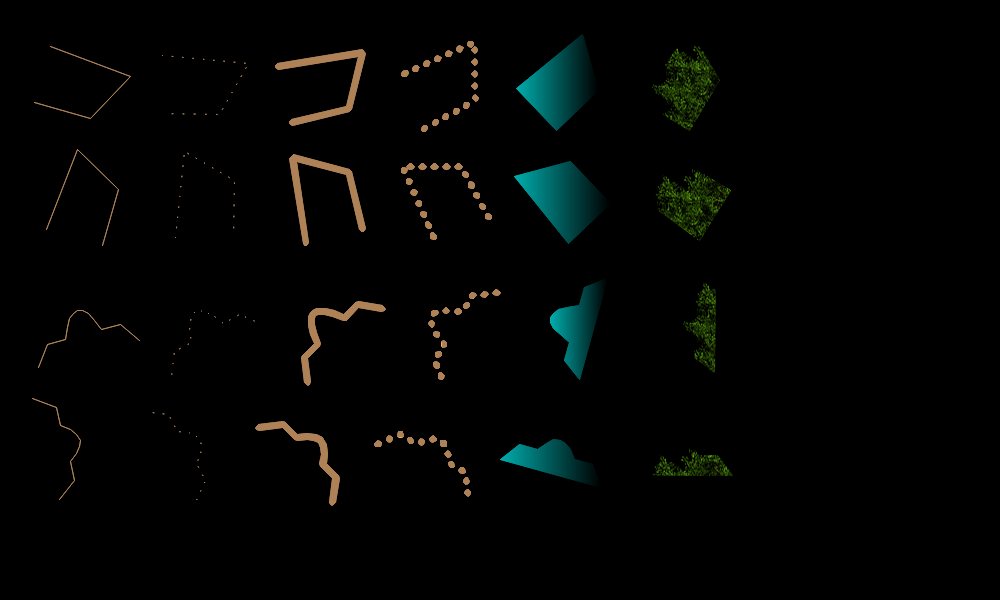
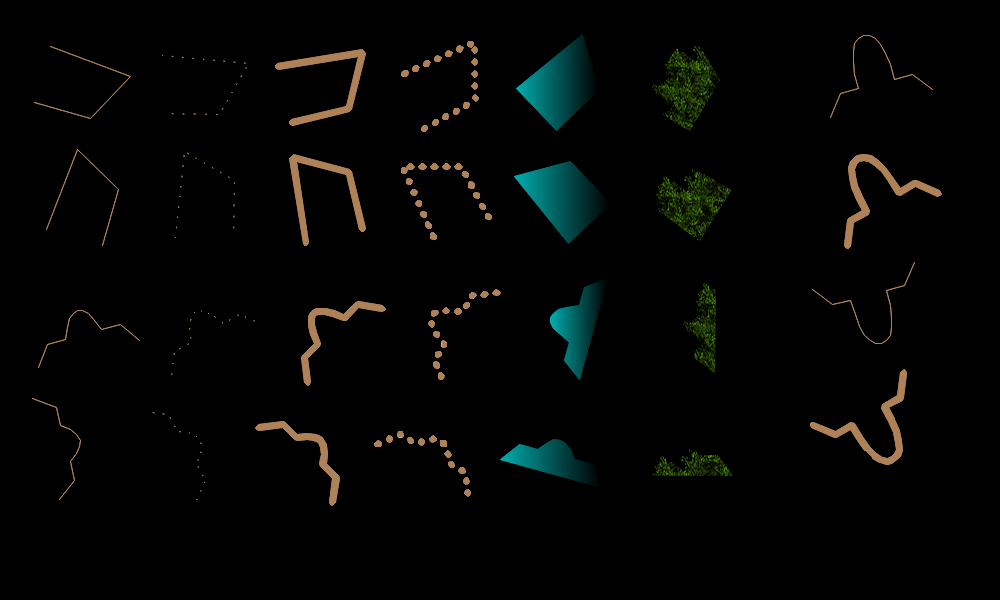
Working on Path2D

Changed region(s): [[0.837, 0.24, 0.961, 0.42], [0.806, 0.66, 0.93, 0.78], [0.899, 0.6, 0.93, 0.66]]

diff --git a/src/Pt-Gfx/tests/ImagePainterTest2_Benchmark_Path.cpp b/src/Pt-Gfx/tests/ImagePainterTest2_Benchmark_Path.cpp
@@ -93,6 +93,43 @@ static void benchDrawPath_drawRow(
     ++row;
 }
 
+template <bool WITH_RASTERISATION>
+static void benchDrawPath_drawCol(
+    ImagePainter2* ip2, AffineMatrix2D& matrix2d, const Path2D& path2d, Pt::int32_t& row, Pt::int32_t& col,
+    const Pen& penThinSolid, const Pen& penThickSolid, AntiAliasingMode antiAliasingMode
+)
+{
+    std::vector<PointF> pointsF;
+
+    matrix2d.rotateAboutOrigin(15);
+    matrix2d.push();
+    matrix2d.translate(150 + 120 * col, 60 + 120 * row);
+    pointsF.clear();
+    path2d.generatePoints(pointsF, 0);
+    matrix2d.transformPoints(pointsF.data(), pointsF.size());
+    if(WITH_RASTERISATION) {
+        ip2->setAntiAliasingMode(antiAliasingMode);
+        ip2->setPen(penThinSolid);
+        ip2->drawPolyline(pointsF.data(), pointsF.size(), false);
+    }
+    matrix2d.pop();
+    ++row;
+
+    matrix2d.rotateAboutOrigin(15);
+    matrix2d.push();
+    matrix2d.translate(150 + 120 * col, 60 + 120 * row);
+    pointsF.clear();
+    path2d.generatePoints(pointsF, 0);
+    matrix2d.transformPoints(pointsF.data(), pointsF.size());
+    if(WITH_RASTERISATION) {
+        ip2->setAntiAliasingMode(antiAliasingMode);
+        ip2->setPen(penThickSolid);
+        ip2->drawPolyline(pointsF.data(), pointsF.size(), false);
+    }
+    matrix2d.pop();
+    ++row;
+}
+
 template <typename PainterT, bool WITH_RASTERISATION>
 static size_t benchDrawPath(int loopCount, const Brush& brush1, const Brush& brush2, CompositionMode cm, AntiAliasingMode antiAliasingMode)
 {
@@ -140,12 +177,12 @@ static size_t benchDrawPath(int loopCount, const Brush& brush1, const Brush& bru
         // Create a new path
         path2d.clear            ();
         path2d.beginPath        ();
-        path2d.moveTo           (          120, 70); // CCW
-        path2d.lineTo           (          100, 50);
-        path2d.lineTo           (           75, 50);
-        path2d.quadraticBezierTo( 50,   0,  25, 50);
-        path2d.lineTo           (            0, 50);
-        path2d.lineTo           (          -20, 70);
+        path2d.moveTo           (       120, 70); // CCW
+        path2d.lineTo           (       100, 50);
+        path2d.lineTo           (        75, 50);
+        path2d.quadraticBezierTo(50, 0,  25, 50);
+        path2d.lineTo           (         0, 50);
+        path2d.lineTo           (       -20, 70);
         path2d.endPath          ();
 
         matrix2d.identity();
@@ -158,16 +195,54 @@ static size_t benchDrawPath(int loopCount, const Brush& brush1, const Brush& bru
         // Create a new path
         path2d.clear            ();
         path2d.beginPath        ();
-        path2d.moveTo           (          120,  0); // CCW
-        path2d.lineTo           (          100, 20);
-        path2d.lineTo           (           75, 20);
-        path2d.quadraticBezierTo( 50,  50,  25, 20);
-        path2d.lineTo           (            0, 20);
-        path2d.lineTo           (          -20,  0);
+        path2d.moveTo           (        120,  0); // CCW
+        path2d.lineTo           (        100, 20);
+        path2d.lineTo           (         75, 20);
+        path2d.quadraticBezierTo(50, 50,  25, 20);
+        path2d.lineTo           (          0, 20);
+        path2d.lineTo           (        -20,  0);
         path2d.endPath          ();
 
         // Fourth row
         benchDrawPath_drawRow<WITH_RASTERISATION>(ip2, matrix2d, path2d, row, col, penThinSolid, penThinDot, penThickSolid, penThickDot, brush1, brush2, antiAliasingMode);
+
+        // Rightmost part of the image
+        row = 0;
+        col = 6;
+
+        // Create a new path
+        path2d.clear    ();
+        path2d.beginPath();
+        path2d.moveTo   (120, 70    ); // CCW
+        path2d.lineTo   (100, 50    );
+        path2d.lineTo   ( 75, 50    );
+        path2d.arcTo    ( 25, 50, 50);
+        path2d.lineTo   ( 0,  50    );
+        path2d.lineTo   (-20, 70    );
+        path2d.endPath  ();
+
+        matrix2d.identity();
+        matrix2d.translate(-50, -25);
+        matrix2d.scaleAboutOrigin(0.75f, 1.0f);
+
+        benchDrawPath_drawCol<WITH_RASTERISATION>(ip2, matrix2d, path2d, row, col, penThinSolid, penThickSolid, antiAliasingMode);
+
+        // Create a new path
+        path2d.clear    ();
+        path2d.beginPath();
+        path2d.moveTo   (120,  0     ); // CCW
+        path2d.lineTo   (100, 20     );
+        path2d.lineTo   ( 75, 20     );
+        path2d.arcTo    ( 25, 20, -50);
+        path2d.lineTo   ( 0,  20     );
+        path2d.lineTo   (-20,  0     );
+        path2d.endPath  ();
+
+        matrix2d.identity();
+        matrix2d.translate(-50, -25);
+        matrix2d.scaleAboutOrigin(0.75f, 1.0f);
+
+        benchDrawPath_drawCol<WITH_RASTERISATION>(ip2, matrix2d, path2d, row, col, penThinSolid, penThickSolid, antiAliasingMode);
 
         sum += clock.stop().toUSecs();
 

diff --git a/src/Pt-Gfx/tests/ImagePainterTest2_Draw_Path.cpp b/src/Pt-Gfx/tests/ImagePainterTest2_Draw_Path.cpp
@@ -54,6 +54,28 @@ static void testDrawPath_drawRow(
     ++row;
 }
 
+static void testDrawPath_drawCol(
+    ImagePainter2* ip2, AffineMatrix2D& matrix2d, const Path2D& path2d, Pt::int32_t& row, Pt::int32_t& col,
+    const Pen& penThinSolid, const Pen& penThickSolid
+)
+{
+    matrix2d.rotateAboutOrigin(15);
+    matrix2d.push();
+    matrix2d.translate(150 + 120 * col, 60 + 120 * row);
+    ip2->setPen(penThinSolid);
+    ip2->drawPath(path2d, matrix2d, false);
+    matrix2d.pop();
+    ++row;
+
+    matrix2d.rotateAboutOrigin(15);
+    matrix2d.push();
+    matrix2d.translate(150 + 120 * col, 60 + 120 * row);
+    ip2->setPen(penThickSolid);
+    ip2->drawPath(path2d, matrix2d, false);
+    matrix2d.pop();
+    ++row;
+}
+
 static void testDrawPath(const char* title, Image& image, Painter& painter, const Brush& brush1, const Brush& brush2)
 {
     resetImage(image);
@@ -93,12 +115,12 @@ static void testDrawPath(const char* title, Image& image, Painter& painter, cons
     // Create a new path
     path2d.clear            ();
     path2d.beginPath        ();
-    path2d.moveTo           (          120, 70); // CCW
-    path2d.lineTo           (          100, 50);
-    path2d.lineTo           (           75, 50);
-    path2d.quadraticBezierTo( 50,   0,  25, 50);
-    path2d.lineTo           (            0, 50);
-    path2d.lineTo           (          -20, 70);
+    path2d.moveTo           (       120, 70); // CCW
+    path2d.lineTo           (       100, 50);
+    path2d.lineTo           (        75, 50);
+    path2d.quadraticBezierTo(50, 0,  25, 50);
+    path2d.lineTo           (         0, 50);
+    path2d.lineTo           (       -20, 70);
     path2d.endPath          ();
 
     matrix2d.identity();
@@ -111,16 +133,54 @@ static void testDrawPath(const char* title, Image& image, Painter& painter, cons
     // Create a new path
     path2d.clear            ();
     path2d.beginPath        ();
-    path2d.moveTo           (          120,  0); // CCW
-    path2d.lineTo           (          100, 20);
-    path2d.lineTo           (           75, 20);
-    path2d.quadraticBezierTo( 50,  50,  25, 20);
-    path2d.lineTo           (            0, 20);
-    path2d.lineTo           (          -20,  0);
+    path2d.moveTo           (        120,  0); // CCW
+    path2d.lineTo           (        100, 20);
+    path2d.lineTo           (         75, 20);
+    path2d.quadraticBezierTo(50, 50,  25, 20);
+    path2d.lineTo           (          0, 20);
+    path2d.lineTo           (        -20,  0);
     path2d.endPath          ();
 
     // Fourth row
     testDrawPath_drawRow(ip2, matrix2d, path2d, row, col, penThinSolid, penThinDot, penThickSolid, penThickDot, brush1, brush2);
+
+    // Rightmost part of the image
+    row = 0;
+    col = 6;
+
+    // Create a new path
+    path2d.clear    ();
+    path2d.beginPath();
+    path2d.moveTo   (120, 70    ); // CCW
+    path2d.lineTo   (100, 50    );
+    path2d.lineTo   ( 75, 50    );
+    path2d.arcTo    ( 25, 50, 50);
+    path2d.lineTo   ( 0,  50    );
+    path2d.lineTo   (-20, 70    );
+    path2d.endPath  ();
+
+    matrix2d.identity();
+    matrix2d.translate(-50, -25);
+    matrix2d.scaleAboutOrigin(0.75f, 1.0f);
+
+    testDrawPath_drawCol(ip2, matrix2d, path2d, row, col, penThinSolid, penThickSolid);
+
+    // Create a new path
+    path2d.clear    ();
+    path2d.beginPath();
+    path2d.moveTo   (120,  0     ); // CCW
+    path2d.lineTo   (100, 20     );
+    path2d.lineTo   ( 75, 20     );
+    path2d.arcTo    ( 25, 20, -50);
+    path2d.lineTo   ( 0,  20     );
+    path2d.lineTo   (-20,  0     );
+    path2d.endPath  ();
+
+    matrix2d.identity();
+    matrix2d.translate(-50, -25);
+    matrix2d.scaleAboutOrigin(0.75f, 1.0f);
+
+    testDrawPath_drawCol(ip2, matrix2d, path2d, row, col, penThinSolid, penThickSolid);
 
     sdlPreviewRGB888Buffer(title, image.data(), image.width(), image.height(), !!ip2);
 }

diff --git a/src/Pt-Gfx/Path2D.cpp b/src/Pt-Gfx/Path2D.cpp
@@ -32,7 +32,7 @@
 #include <Pt/Gfx/Path2D.h>
 #include <Pt/Gfx/Painter.h>
 #include <Pt/Gfx/Math.h>
-
+#include <stdio.h>
 
 namespace Pt {
 namespace Gfx {
@@ -85,18 +85,26 @@ static inline void generateQuadraticBezierPoints(std::vector<PointF>& dst, doubl
 
 static inline void generateArcPoints(std::vector<PointF>& dst, double x1, double y1, double x2, double y2, double r, Pt::uint8_t smoothness)
 {
-    // ### TODO ###
+    // Line equation : 0 = aX + By + c
+    // Normal        : n = ai + bj
+    const double a = y2 - y1;
+    const double b = x1 - x2;
+  //const double c = -(x1 * y2 - x2 * y1);
 
-    /*
-    int r = (int)Math.sqrt((x1-x0)*(x1-x0) + (y1-y0)*(y1-y0));
-    int x = x0-r;
-    int y = y0-r;
-    int width = 2*r;
-    int height = 2*r;
-    int startAngle = (int) (180/Math.PI*atan2(y1-y0, x1-x0));
-    int endAngle = (int) (180/Math.PI*atan2(y2-y0, x2-x0));
-    canvas.drawArc(x, y, width, height, startAngle, endAngle);
-    */
+    // Negated inverse line length
+    const float il = -Gfx::Math::fastInvSqrt(a * a + b * b);
+
+    // Circumference vector
+    const double cx =  a * il * r;
+    const double cy =  b * il * r;
+
+    // Middle point
+    const double xm = (x1 + x2) * 0.5;
+    const double ym = (y1 + y2) * 0.5;
+
+    // Use quadratic bezier curve to generate the arc
+    generateQuadraticBezierPoints(dst, x1, y1, x1 + cx, y1 + cy, xm + cx, ym + cy, smoothness);
+    generateQuadraticBezierPoints(dst, xm + cx, ym + cy, x2 + cx, y2 + cy, x2, y2, smoothness);
 }
 
 

diff --git a/src/Pt-Gfx/tests/ImagePainterTest2_Benchmark.cpp b/src/Pt-Gfx/tests/ImagePainterTest2_Benchmark.cpp
@@ -317,7 +317,7 @@ static void doBenchmark(CompositionMode cm)
         std::clog << "    Path NOAA                        @ ImagePainter2 = " << std::setw(6) << time1 << std::endl;
         time2 = benchDrawPath<ImagePainter2, true >(BENCHMARK_LOOP_COUNT, bmBrushGradientH, bmBrushTextureT, cm, AntiAliasingMode::Standard);
         std::clog << "    Path XWAA                        @ ImagePainter2 = " << std::setw(6) << time2
-                  << " (" << std::setw(6) << std::setprecision(3) << (time2 / time1) << ")" << std::setprecision(0) << std::endl;
+                 << " (" << std::setw(6) << std::setprecision(3) << (time2 / time1) << ")" << std::setprecision(0) << std::endl;
         if(!BENCHMARK_RESULT_HTML) std::clog << std::endl;
     }
 }

diff --git a/src/Pt-Gfx/tests/ImagePainterTest2.cpp b/src/Pt-Gfx/tests/ImagePainterTest2.cpp
@@ -66,8 +66,8 @@ using namespace Pt::Gfx;
 #define BENCHMARK_CAIRO_CHECK_RESULTING_IMAGE 0
 
 // General settings for Pt-Gfx
-#define DO_TEST_DRAW    1
-#define DO_BENCHMARKING 0
+#define DO_TEST_DRAW    0
+#define DO_BENCHMARKING 1
 
 // Detailed-test enable settings for Pt-Gfx
 #define TEST_SOURCECOPY                         1
@@ -93,7 +93,7 @@ using namespace Pt::Gfx;
 #define TEST_DRAW_GRADIENT_FILLED_ELLIPSES_ARCS 0
 #define TEST_DRAW_TEXTURE_FILLED_ELLIPSES_ARCS  0
 
-#define TEST_DRAW_PATH                          1 // (including thick and filled) // ### !!! VALGRIND IT !!! ###
+#define TEST_DRAW_PATH                          1 // (including thick and filled)
 
 #define TEST_COMPARE_WITH_OLD_PAINTER           0 // (for some shapes only)
 

diff --git a/include/Pt/Gfx/AffineMatrix2D.h b/include/Pt/Gfx/AffineMatrix2D.h
@@ -39,6 +39,17 @@
 #include <Pt/Gfx/SIMDConfig.h>
 
 
+#undef PT_GFX_USE_AVX2
+#undef PT_GFX_USE_AVX1
+
+#undef PT_GFX_USE_SSSE3
+#undef PT_GFX_USE_SSE3
+#undef PT_GFX_USE_SSE2
+#undef PT_GFX_USE_SSE1
+
+#undef PT_GFX_USE_NEON
+
+
 namespace Pt{
 namespace Gfx{
 

diff --git a/src/Pt-Gfx/ImagePainter2.cpp b/src/Pt-Gfx/ImagePainter2.cpp
@@ -62,7 +62,7 @@ static inline void calculateLineParams(float& wh, float& dx, float& dy, float& n
     dx = -b * il * wh;
     dy =  a * il * wh;
 
-    // Normal vector vector
+    // Normal vector
     nx =  a * il * wh;
     ny =  b * il * wh;
 }
